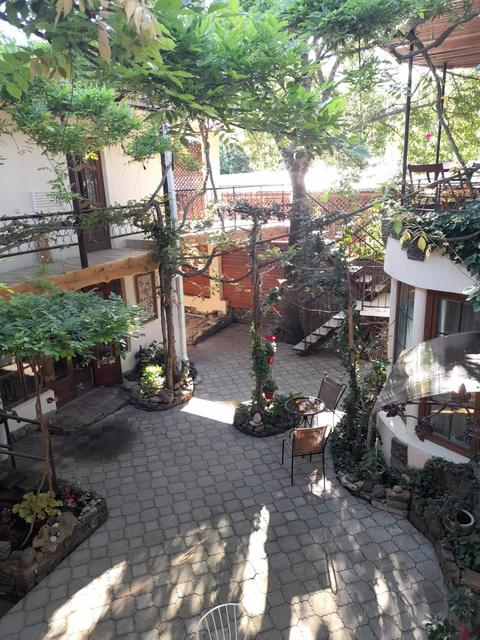
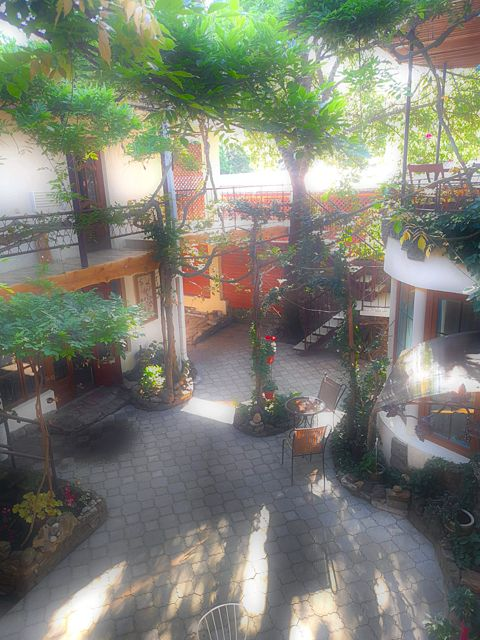
Фото горы Ёжик, новая территория, красный адрес, правки текста
Claude-Session: https://claude.ai/code/session_01UQK2ugp9VBPEe6MNEprv9b

diff --git a/index.html b/index.html
@@ -44,13 +44,18 @@ a{color:var(--sea)}
 .btn-line{background:transparent;color:var(--vine)}
 .bar .btn{padding:9px 18px}
 @media (max-width:820px){.nav{display:none}}
+@media (max-width:560px){.brand-pre{display:none}}
 @media (max-width:440px){.brand{font-size:19px}.bar .btn{padding:8px 14px;font-size:14px}.btn{text-align:center;max-width:100%}}
 
 /* banner */
 .banner{position:relative;margin-block:24px 40px;border-radius:26px;overflow:hidden;box-shadow:var(--shadow);
-  background:linear-gradient(90deg,rgba(6,44,52,.78) 0%,rgba(6,44,52,.45) 50%,rgba(6,44,52,0) 78%),url(img/banner-sea.jpg) center 64%/cover no-repeat;}
-.banner-inner{display:grid;grid-template-columns:1.3fr .7fr;gap:32px;align-items:end;padding:48px 48px 44px}
+  background:linear-gradient(270deg,rgba(6,44,52,.82) 0%,rgba(6,44,52,.58) 45%,rgba(6,44,52,.12) 75%),url(img/ezhik-photo.jpg) center 45%/cover no-repeat;}
+.banner-inner{display:grid;grid-template-columns:.7fr 1.3fr;gap:32px;align-items:end;padding:48px 48px 44px}
+.banner .text{order:2}
+.banner .entrance{order:1;justify-self:start;max-width:230px}
+.ezhik-tag{position:absolute;left:18px;top:16px;background:rgba(6,44,52,.7);color:#fff;font-size:13px;padding:6px 12px;border-radius:999px}
 .banner .text{color:#fff}
+.pre-title{font-family:var(--script);font-size:clamp(28px,3.6vw,42px);color:#fff;margin:0 0 -4px;text-shadow:0 2px 10px rgba(0,0,0,.45)}
 .title{font-family:var(--script);font-weight:400;font-size:clamp(58px,10vw,124px);line-height:.98;letter-spacing:0;filter:drop-shadow(0 3px 12px rgba(0,0,0,.35))}
 .title span{display:block;background-clip:text;-webkit-background-clip:text;color:transparent;padding-bottom:.08em}
 .title .w1{background-image:linear-gradient(95deg,#FFE27A 0%,#FFB347 45%,#FF7E67 100%)}
@@ -60,14 +65,13 @@ a{color:var(--sea)}
 .banner .actions{display:flex;flex-wrap:wrap;gap:12px;margin-top:26px}
 .banner .btn-solid{background:#FFB347;border-color:#FFB347;color:#2B1600}
 .banner .btn-line{color:#fff;border-color:rgba(255,255,255,.8)}
-.plaque{display:inline-flex;flex-direction:column;align-items:center;border:2px solid var(--sea);color:var(--sea);border-radius:10px;padding:8px 16px 6px;margin-bottom:22px;font-family:var(--display);line-height:1.1;background:var(--surface)}
-.plaque small{font:600 11px/1 var(--body);letter-spacing:.16em;text-transform:uppercase}
-.plaque b{font-weight:400;font-size:24px}
+.plaque{display:inline-block;background:#fff;color:#E3242B;font-family:var(--script);font-size:clamp(24px,3vw,32px);line-height:1.1;padding:8px 20px 10px;border-radius:14px;border:2px solid #E3242B;box-shadow:0 8px 20px -10px rgba(0,0,0,.5);margin-bottom:18px;transform:rotate(-2deg)}
 .entrance{margin:0;justify-self:end;width:100%;max-width:300px;border-radius:150px 150px 14px 14px;overflow:hidden;border:5px solid #fff;box-shadow:var(--shadow);aspect-ratio:3/4;background:var(--vine-soft)}
 .entrance img{width:100%;height:100%;object-fit:cover;display:block}
 @media (max-width:820px){
-  .banner{background:linear-gradient(180deg,rgba(6,44,52,.35) 0%,rgba(6,44,52,.72) 100%),url(img/banner-sea.jpg) center 55%/cover no-repeat}
-  .banner-inner{grid-template-columns:1fr;padding:32px 22px 30px}
+  .banner{background:linear-gradient(180deg,rgba(6,44,52,0) 0%,rgba(6,44,52,0) 26%,rgba(6,44,52,.85) 42%,#0B3D44 100%),url(img/ezhik-photo.jpg) 12% 0/auto 62vw no-repeat,#0B3D44}
+  .banner-inner{grid-template-columns:1fr;padding:48vw 22px 30px}
+  .banner .text{order:1}.banner .entrance{order:2}
   .entrance{justify-self:start;max-width:220px}
 }
 /* intro */
@@ -296,7 +300,7 @@ footer .legal{flex-basis:100%;font-size:13px}
 <body>
 <header class="bar">
   <div class="wrap">
-    <a class="brand" href="#top">Итальянский дворик</a>
+    <a class="brand" href="#top"><span class="brand-pre">Гостевой дом </span>«Итальянский дворик»</a>
     <nav class="nav" aria-label="Разделы">
       <a href="#dvorik">Дворик</a>
       <a href="#nomera">Номера</a>
@@ -311,9 +315,11 @@ footer .legal{flex-basis:100%;font-size:13px}
 
 <main class="wrap" id="top">
   <div class="banner">
+    <span class="ezhik-tag">Гора Ёжик, Архипо-Осиповка</span>
     <div class="banner-inner">
       <div class="text">
-        <div class="plaque"><small>ул. Садовая</small><b>3А</b></div>
+        <div class="plaque">ул. Садовая, 3А</div>
+        <p class="pre-title">Гостевой дом</p>
         <h1 class="title"><span class="w1">Итальянский</span><span class="w2">дворик</span></h1>
         <p class="tagline">Комфортно, уютно, без лишней роскоши</p>
         <p class="lead">Гостевой дом в Архипо-Осиповке, в 400 метрах от центрального пляжа и набережной. Зелёный дворик под виноградом и тихий отдых по доступной цене.</p>
@@ -368,12 +374,12 @@ footer .legal{flex-basis:100%;font-size:13px}
 </svg><figcaption>Гора Ёжик — визитная карточка Архипки</figcaption></figure>
       <p class="invite">А всего в пяти минутах ходьбы от центра пляжа вас ждёт гостевой дом «Итальянский дворик». Приезжайте к нам отдыхать: уютно, спокойно и по-домашнему.</p>
       <ul class="beach">
-        <li><b>≈ 1 км</b><span>пляжа и набережной</span></li>
+        <li><b>Пляж</b><span>протяжённостью 1 км</span></li>
         <li><b>Галька</b><span>на берегу, песчаное дно</span></li>
         <li><b>Пологий</b><span>вход в море, удобно детям</span></li>
       </ul>
     </div>
-    <figure class="intro-photo"><img src="img/sea-3.jpg" alt="Закат на пляже Архипо-Осиповки" loading="lazy"><figcaption>Закат на пляже Архипки</figcaption></figure>
+    <figure class="intro-photo"><img src="img/sea-sky.jpg" alt="Море и небо — два символа бесконечности" loading="lazy"></figure>
   </section>
 
   <div class="facts">
@@ -406,7 +412,6 @@ footer .legal{flex-basis:100%;font-size:13px}
         <div class="ico" aria-hidden="true"><svg width="22" height="22" viewBox="0 0 24 24" fill="none" stroke="currentColor" stroke-width="1.8"><path d="M4 9h16l-2 6H6z M8 15l-2 5M16 15l2 5M9 5c0 1 1 1 1 2M13 4c0 1 1 1 1 2"/></svg></div>
         <h3>Мангал</h3>
         <p>На территории есть мангал, террасы со столиками и места для отдыха и досуга.</p>
-        <div class="pic" id="g-mangal"></div>
       </div>
       <div class="feature">
         <div class="ico" aria-hidden="true"><svg width="22" height="22" viewBox="0 0 24 24" fill="none" stroke="currentColor" stroke-width="1.8"><path d="M5 16l1.5-5h11L19 16v3H5zM7 19v2M17 19v2M8 14h.01M16 14h.01"/></svg></div>
@@ -673,7 +678,7 @@ footer .legal{flex-basis:100%;font-size:13px}
 
 <script>
 const P={
-  yard:[["hero-1","Мощёный дворик под кронами деревьев"],["yard-1","Двор с цветами и лестницей на второй этаж"],["yard-2","Мощёный двор под зеленью"],["yard-3","Терраса со столиками под аркой"],["yard-4","Уголок отдыха с плетёными креслами"],["yard-5","Двор и галерея второго этажа"],["yard-6","Лестница во дворе"],["yard-7","Дворик в тени деревьев"],["yard-8","Вход в столовую"],["yard-9","Столик у окна во дворе"],["yard-10","Столики во дворе"],["yard-11","Дворик с цветами"],["yard-12","Винтовая лестница под деревом"],["yard-13","Галерея второго этажа"],["yard-14","Галерея с видом во двор"],["yard-15","Дворик с лестницей и столиками"],["yard-16","Уголок под виноградом"],["yard-17","Столик в тени"],["yard-18","Галерея и цветы во дворе"],["house-1","Коридор мансардного этажа"],["house-2","Лестница внутри дома"]],
+  yard:[["hero-1","Мощёный дворик под кронами деревьев"],["yard-1","Двор с цветами и лестницей на второй этаж"],["yard-2","Мощёный двор под зеленью"],["yard-3","Терраса со столиками под аркой"],["yard-4","Уголок отдыха с плетёными креслами"],["yard-5","Двор и галерея второго этажа"],["yard-6","Лестница во дворе"],["yard-7","Дворик в тени деревьев"],["yard-8","Вход в столовую"],["yard-9","Столик у окна во дворе"],["yard-10","Столики во дворе"],["yard-11","Дворик с цветами"],["yard-12","Винтовая лестница под деревом"],["yard-13","Галерея второго этажа"],["yard-14","Галерея с видом во двор"],["yard-15","Дворик с лестницей и столиками"],["yard-16","Уголок под виноградом"],["yard-17","Столик в тени"],["yard-18","Галерея и цветы во дворе"],["yard-19","Галерея второго этажа под виноградом"],["yard-20","Лестница во дворе"],["yard-21","Столики во дворике"],["yard-22","Фонтан с цветами на террасе"]],
   rooms:[["rooms-1","Номер с балконной дверью"],["rooms-2","Двухместный номер"],["rooms-3","Номер с диваном"],["rooms-4","Номер на 3 места"],["rooms-5","Номер с большим окном"],["rooms-6","Номер с отдельной кроватью"],["rooms-7","Номер на 3 места"],["rooms-8","Номер с телевизором"],["rooms-9","Номер на 4 места с двухъярусной кроватью"],["rooms-10","Номер на 4 места"],["rooms-11","Мансардный номер"],["rooms-12","Мансардный номер"],["rooms-13","Номер на 2 места"],["rooms-14","Номер на 3 места"],["rooms-15","Светлый номер"],["rooms-16","Номер со шкафом"],["rooms-17","Номер на 3 места"],["rooms-18","Номер на 3 места"],["rooms-19","Номер с зеркальным шкафом"],["rooms-20","Номер с панорамным окном"],["bath-1","Санузел с душем"],["bath-2","Санузел"],["bath-3","Санузел с душем"],["bath-4","Санузел с душевой"],["bath-5","Душ"],["bath-6","Санузел в мансарде"]],
   kitchen:[["kitchen-1","Кухня-столовая"],["kitchen-2","Столы в кухне-столовой"]],
   mangal:[["mangal-1","Мангал во дворе"]],
@@ -702,7 +707,6 @@ wire("more-yard","g-yard",P.yard,9,true);
 wire("more-rooms","g-rooms",P.rooms,8,false);
 fill("g-sea",P.sea,3,false);
 fill("g-kitchen",P.kitchen,2,false);
-fill("g-mangal",P.mangal,1,false);
 fill("g-parking",P.parking,2,false);
 (function(){const el=document.getElementById("g-fun");P.fun.forEach(([n,a],i)=>{const b=document.createElement("button");b.type="button";b.className="polaroid";b.setAttribute("aria-label","Открыть картинку: "+a);b.innerHTML='<img src="img/'+n+'.jpg" alt="" loading="lazy"><span></span>';b.querySelector("span").textContent=a;b.onclick=()=>open(P.fun.map(([n2,a2])=>[n2,a2]),i);el.appendChild(b);});})();
 
